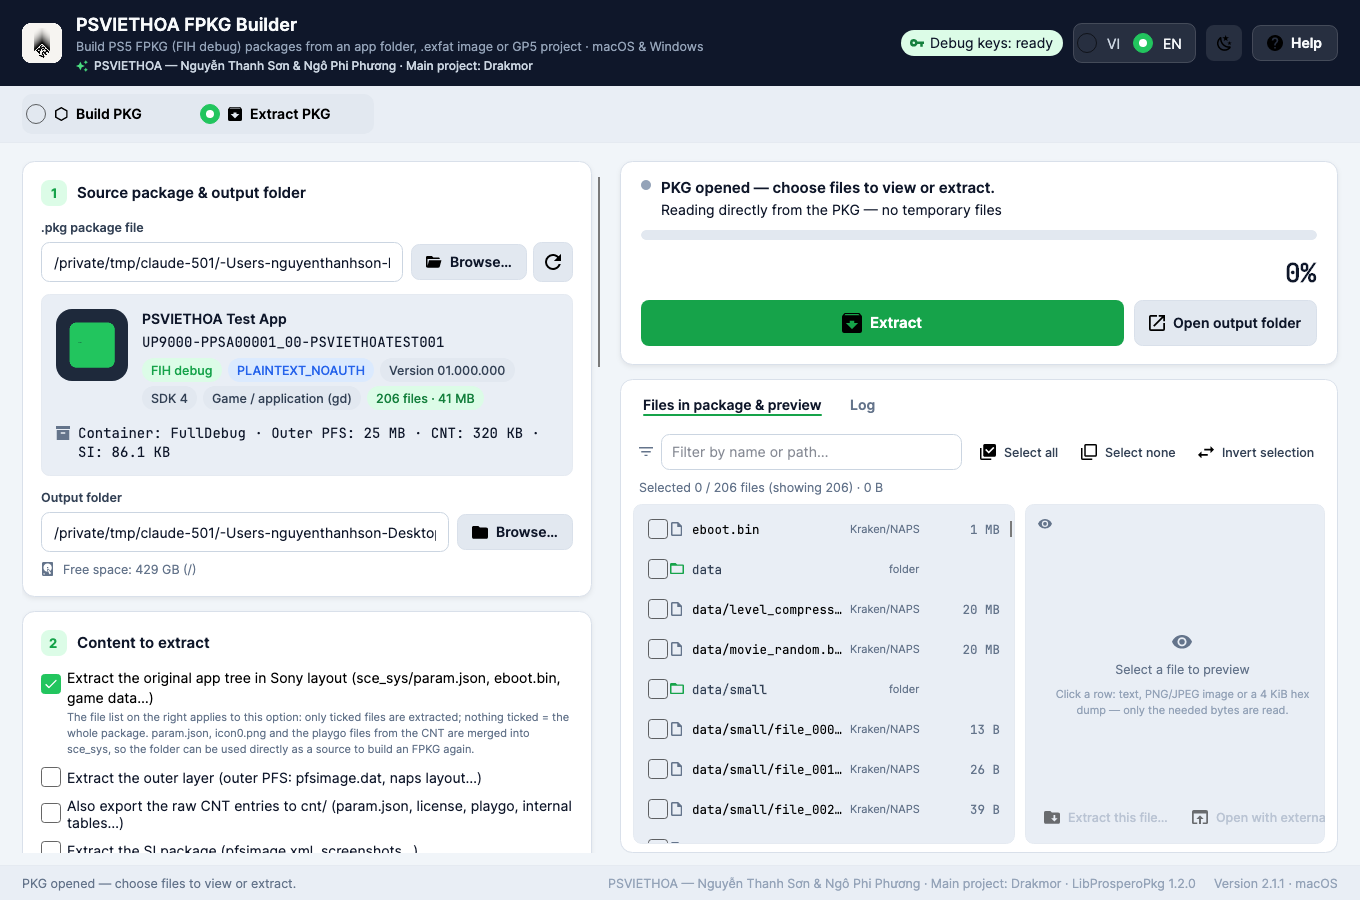
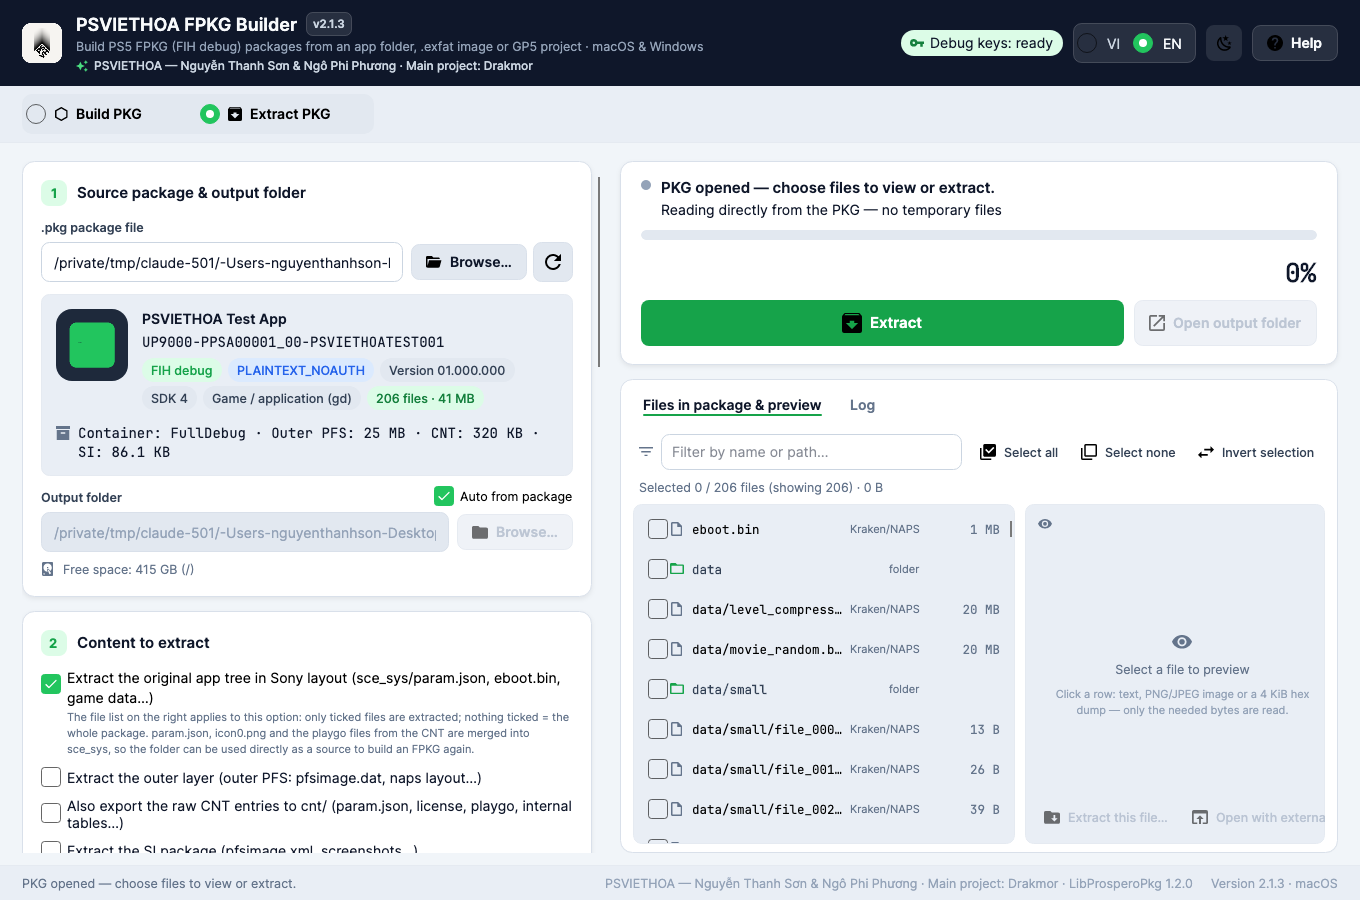
PSVIETHOA FPKG Builder 2.1.3 — version badge in the header, clear recent history
- Version badge next to the app name and in the window title
- "Clear history" link at the end of the recently used sources row

diff --git a/src/PsViethoa.FpkgBuilder.App/ViewModels/MainViewModel.cs b/src/PsViethoa.FpkgBuilder.App/ViewModels/MainViewModel.cs
@@ -110,6 +110,12 @@ public sealed partial class MainViewModel : ObservableObject
 
     public string AppVersionText => Loc.F("App.VersionLabel", AppInfo.Version, AppInfo.PlatformLabel);
 
+    /// <summary>Phiên bản ngắn hiện cạnh tên ứng dụng ở header ("v2.1.3").</summary>
+    public string HeaderVersion => "v" + AppInfo.Version;
+
+    /// <summary>Tiêu đề cửa sổ kèm phiên bản.</summary>
+    public string WindowTitle => "PSVIETHOA FPKG Builder " + AppInfo.Version;
+
     public string CreditsText => Loc.F("App.Credits", LibraryVersion);
 
     public string ThreadsHint => Loc.F("Advanced.ThreadsHint", ProcessorCount);
@@ -1330,6 +1336,15 @@ public sealed partial class MainViewModel : ObservableObject
                 DiskSummary = report.Summary;
             }
         }, TaskScheduler.FromCurrentSynchronizationContext());
+    }
+
+    /// <summary>Xoá danh sách nguồn dùng gần đây (chỉ quên đường dẫn, không đụng vào tệp).</summary>
+    [RelayCommand]
+    private void ClearRecent()
+    {
+        _settings.RecentSources.Clear();
+        OnPropertyChanged(nameof(RecentSources));
+        OnPropertyChanged(nameof(HasRecent));
     }
 
     private void RememberRecent(string source)

diff --git a/CHANGELOG.md b/CHANGELOG.md
@@ -1,5 +1,10 @@
 # Changelog
 
+## 2.1.3 — 2026-09-14
+
+- Version badge next to the app name in the header and in the window title.
+- "Clear history" link at the end of the recently used sources row (forgets the paths only).
+
 ## 2.1.2 — 2026-09-14
 
 - **Output folders follow the source automatically.** New "Auto from source" (build) and "Auto from package" (extract) toggles, on by default: while on, the output folder is always "<source>-pkg" / "<package>-extract" next to the source and updates the moment you pick another source (browse, drop, recent, typed path); the field is locked. Switch it off to choose your own folder (picking a folder in extract mode switches it off automatically). The choice is remembered.
